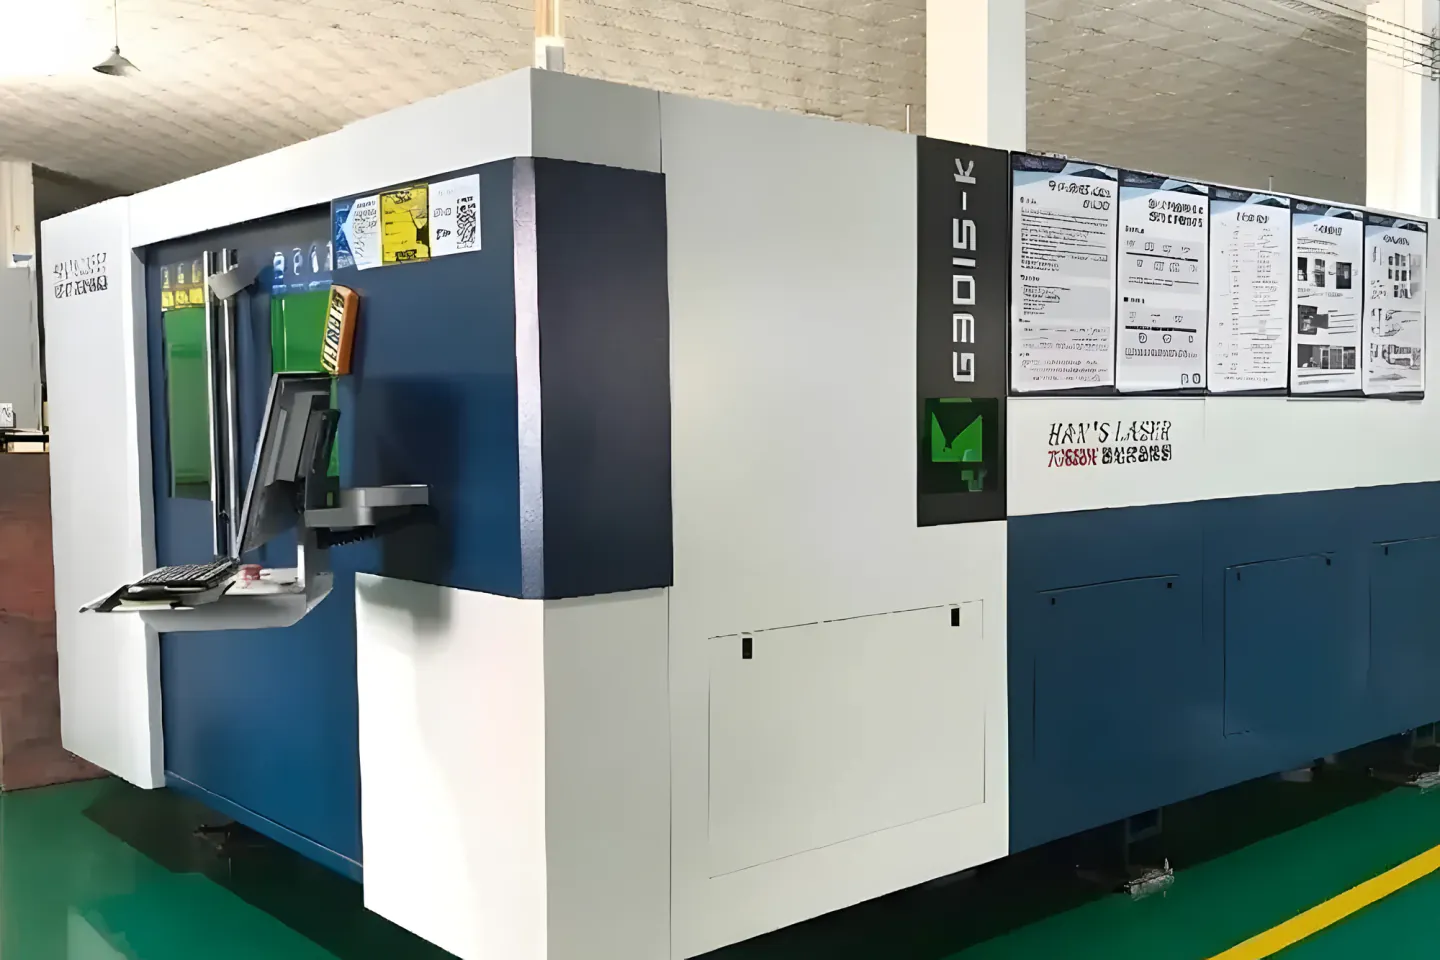
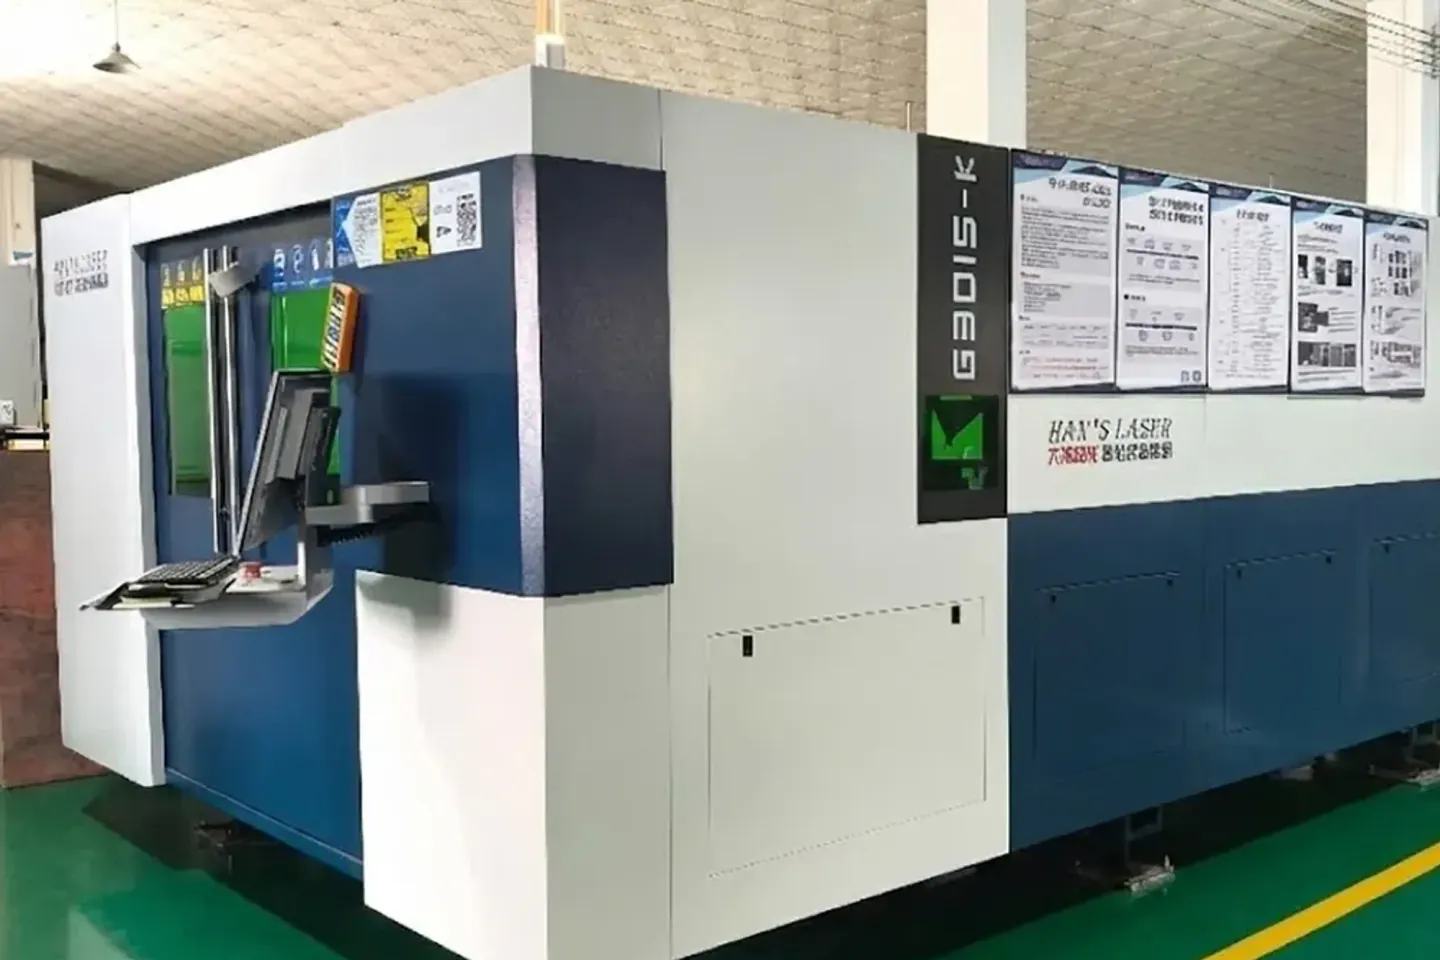
工厂激光切割机照片：撤掉 AI 2× 放大（字被改成乱码），改回原图 + 普通放大

diff --git a/docs/collaboration/agent-updates/2026-10-14-claude-laser-photo-fix.md b/docs/collaboration/agent-updates/2026-10-14-claude-laser-photo-fix.md
@@ -1,0 +1,8 @@
+# Claude — 工厂激光切割机照片：撤掉 AI 放大，改回原图（2026-10-14）
+
+甲方截图指出：机器上的英文变成乱码。
+
+- 原因：b5223aa5e5a（10-12，「工厂图 2× 清晰化」）用 AI 放大了 4 张工厂照片。激光机这张上的字被重新「生成」了：HAN'S LASER 变成 LASIR，中文和海报内容变成假字。另外 3 张（装配线、抛光线、冲压车间）逐块放大对照过，没有发现编造的文字或部件，保留不动。
+- 修复：以雷茵目录里最早的原图（public/images/rayen/factory-laser-cutter.webp，1000×1000）为准，按旧 HYDE 版的取景裁成 3:2（偏移 y=152，用像素比对求出），再用普通 lanczos 插值放大到 2000×1334，尺寸和配置都不用改。之后重新加水印、重新生成 srcset（只提交激光机相关的 10 个文件）。
+- 教训：AI 放大会重写文字和细节，和「不想象产品」是同一类问题。有文字或产品的图只能用普通缩放。
+- 需要发布才能上线（发布由工程会话负责）。
